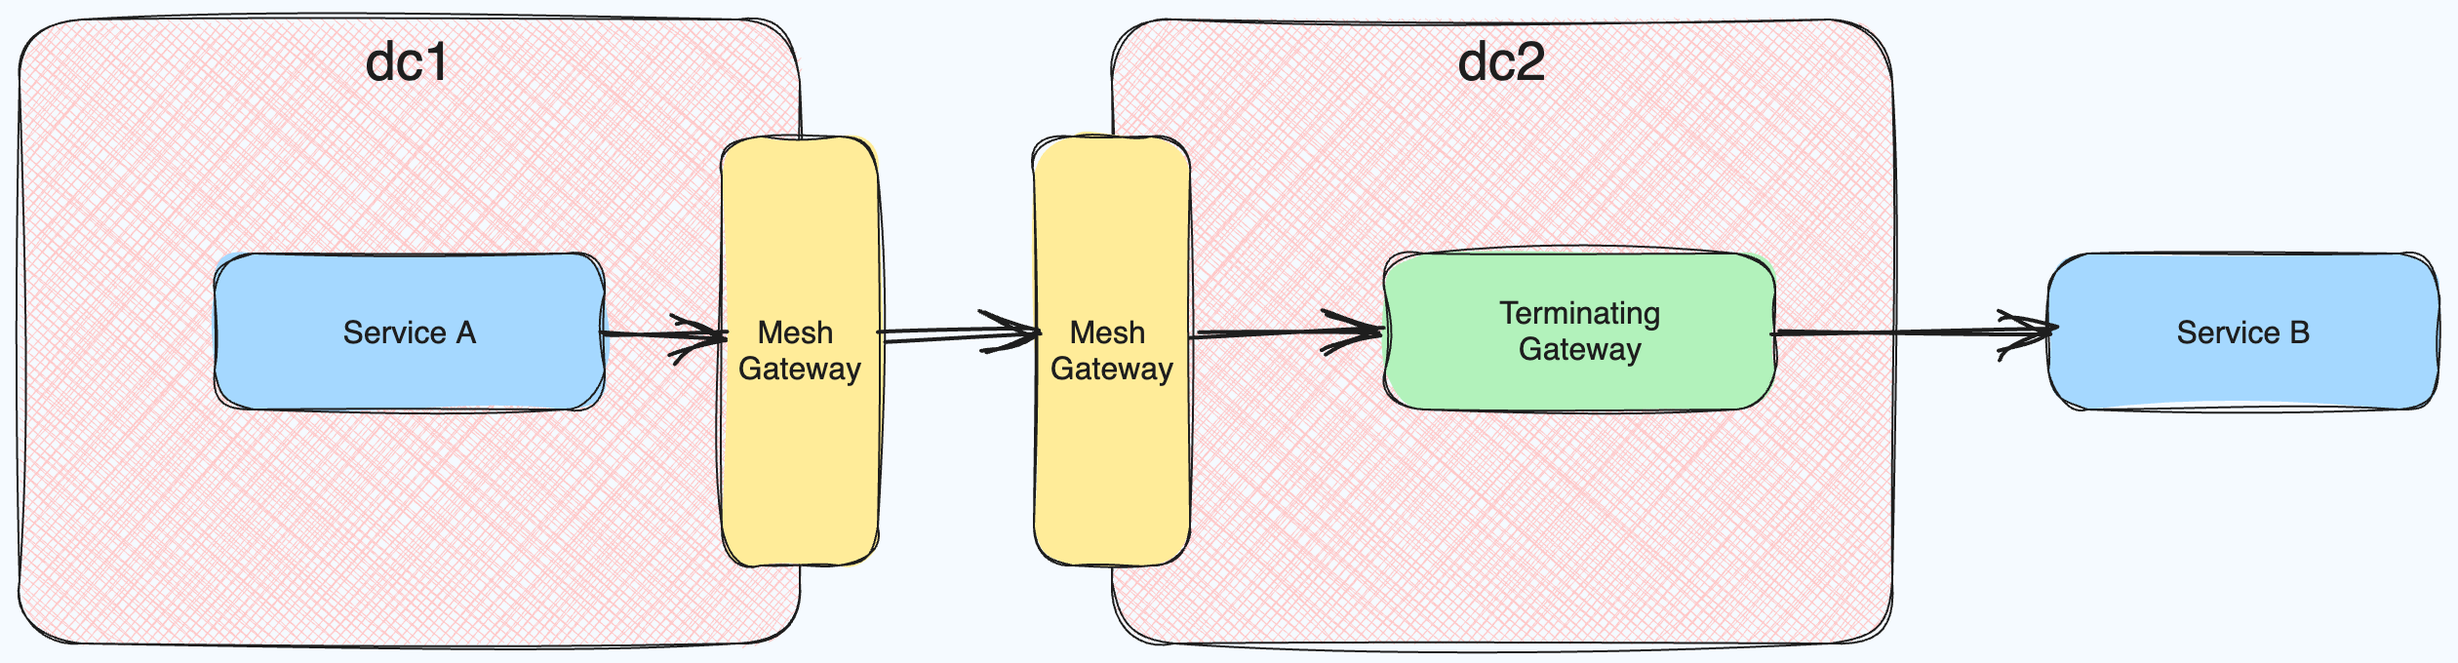
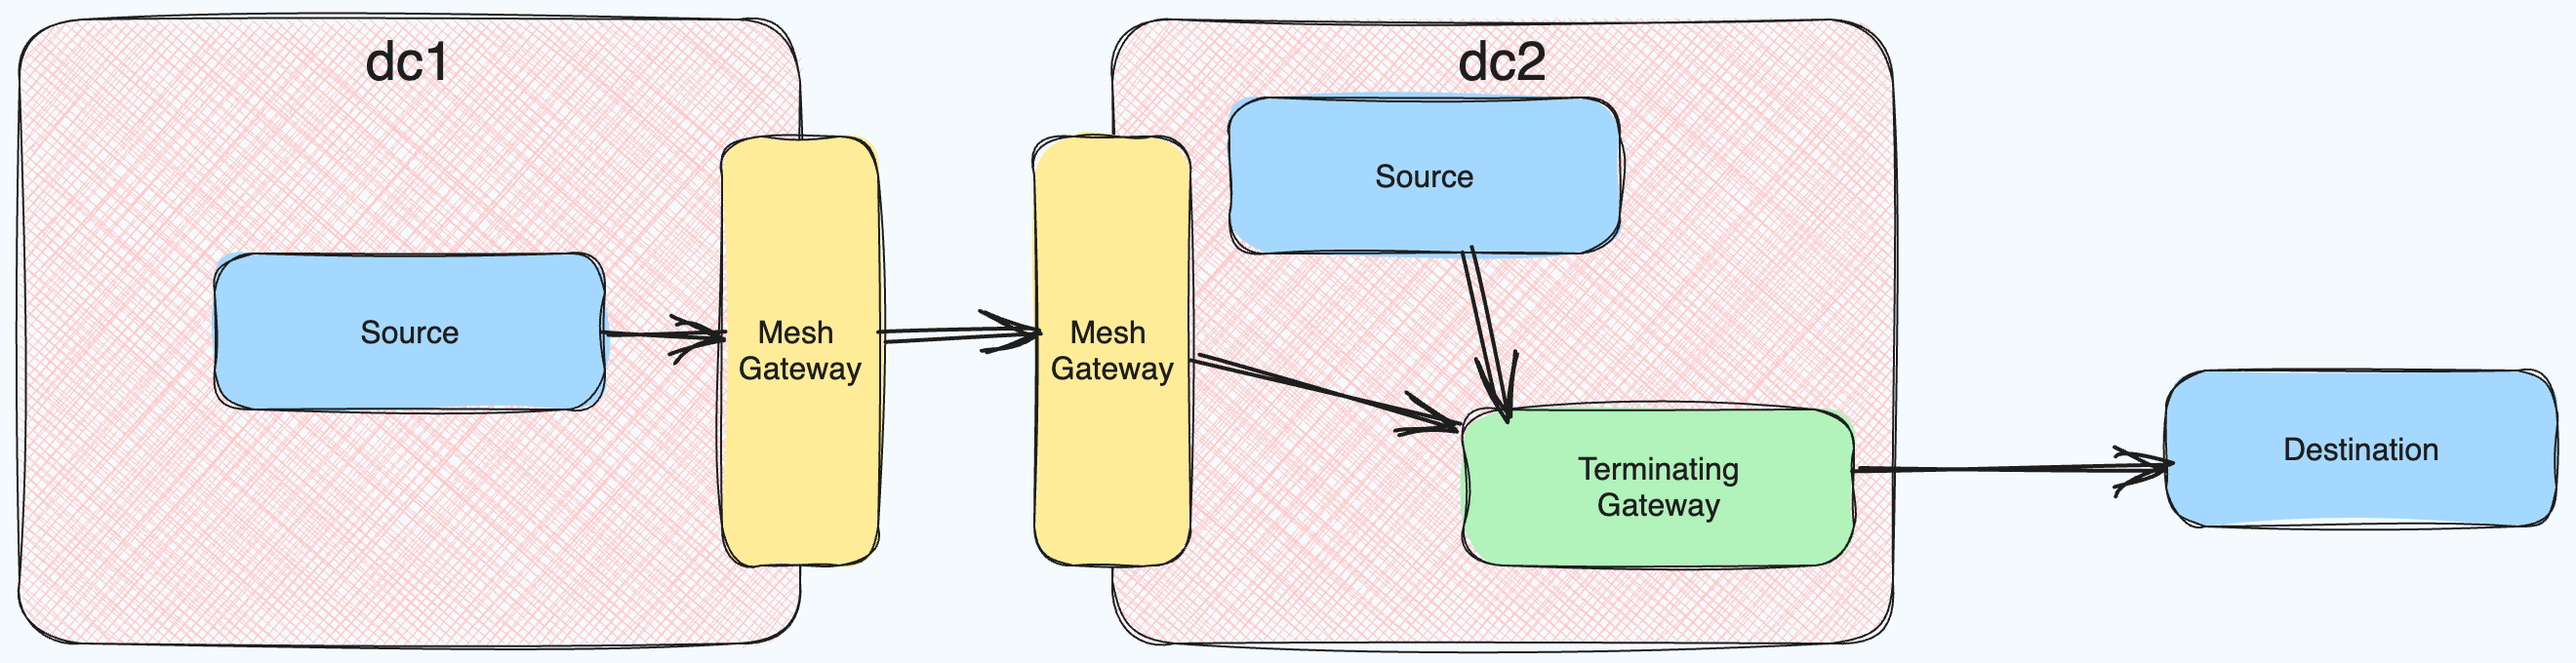
Commit working setup for terminating gateway w/ jsonplaceholder.typicode.com

diff --git a/k8s/terminating-gateway/multi-cluster/README.md b/k8s/terminating-gateway/multi-cluster/README.md
@@ -37,3 +37,14 @@ $ kubectl --context=dc1 get secret peering-token-dc2 -n consul -o yaml | kubectl
 $ helm upgrade --install consul hashicorp/consul --namespace=consul --values=values-dc2.yaml
 $ kubectl apply --filename resources/dc2
 ```
+
+From here, follow https://developer.hashicorp.com/consul/docs/k8s/connect/terminating-gateways
+
+### Test
+
+To test, we shell into the __source__ container and call our upstream.
+It's important that we set the `Host` header to avoid getting a `421 Misdirected Request` from Cloudflare.
+
+```shell
+$ curl --silent -H "Host: jsonplaceholder.typicode.com" http://localhost:1234/todos | jq
+```
